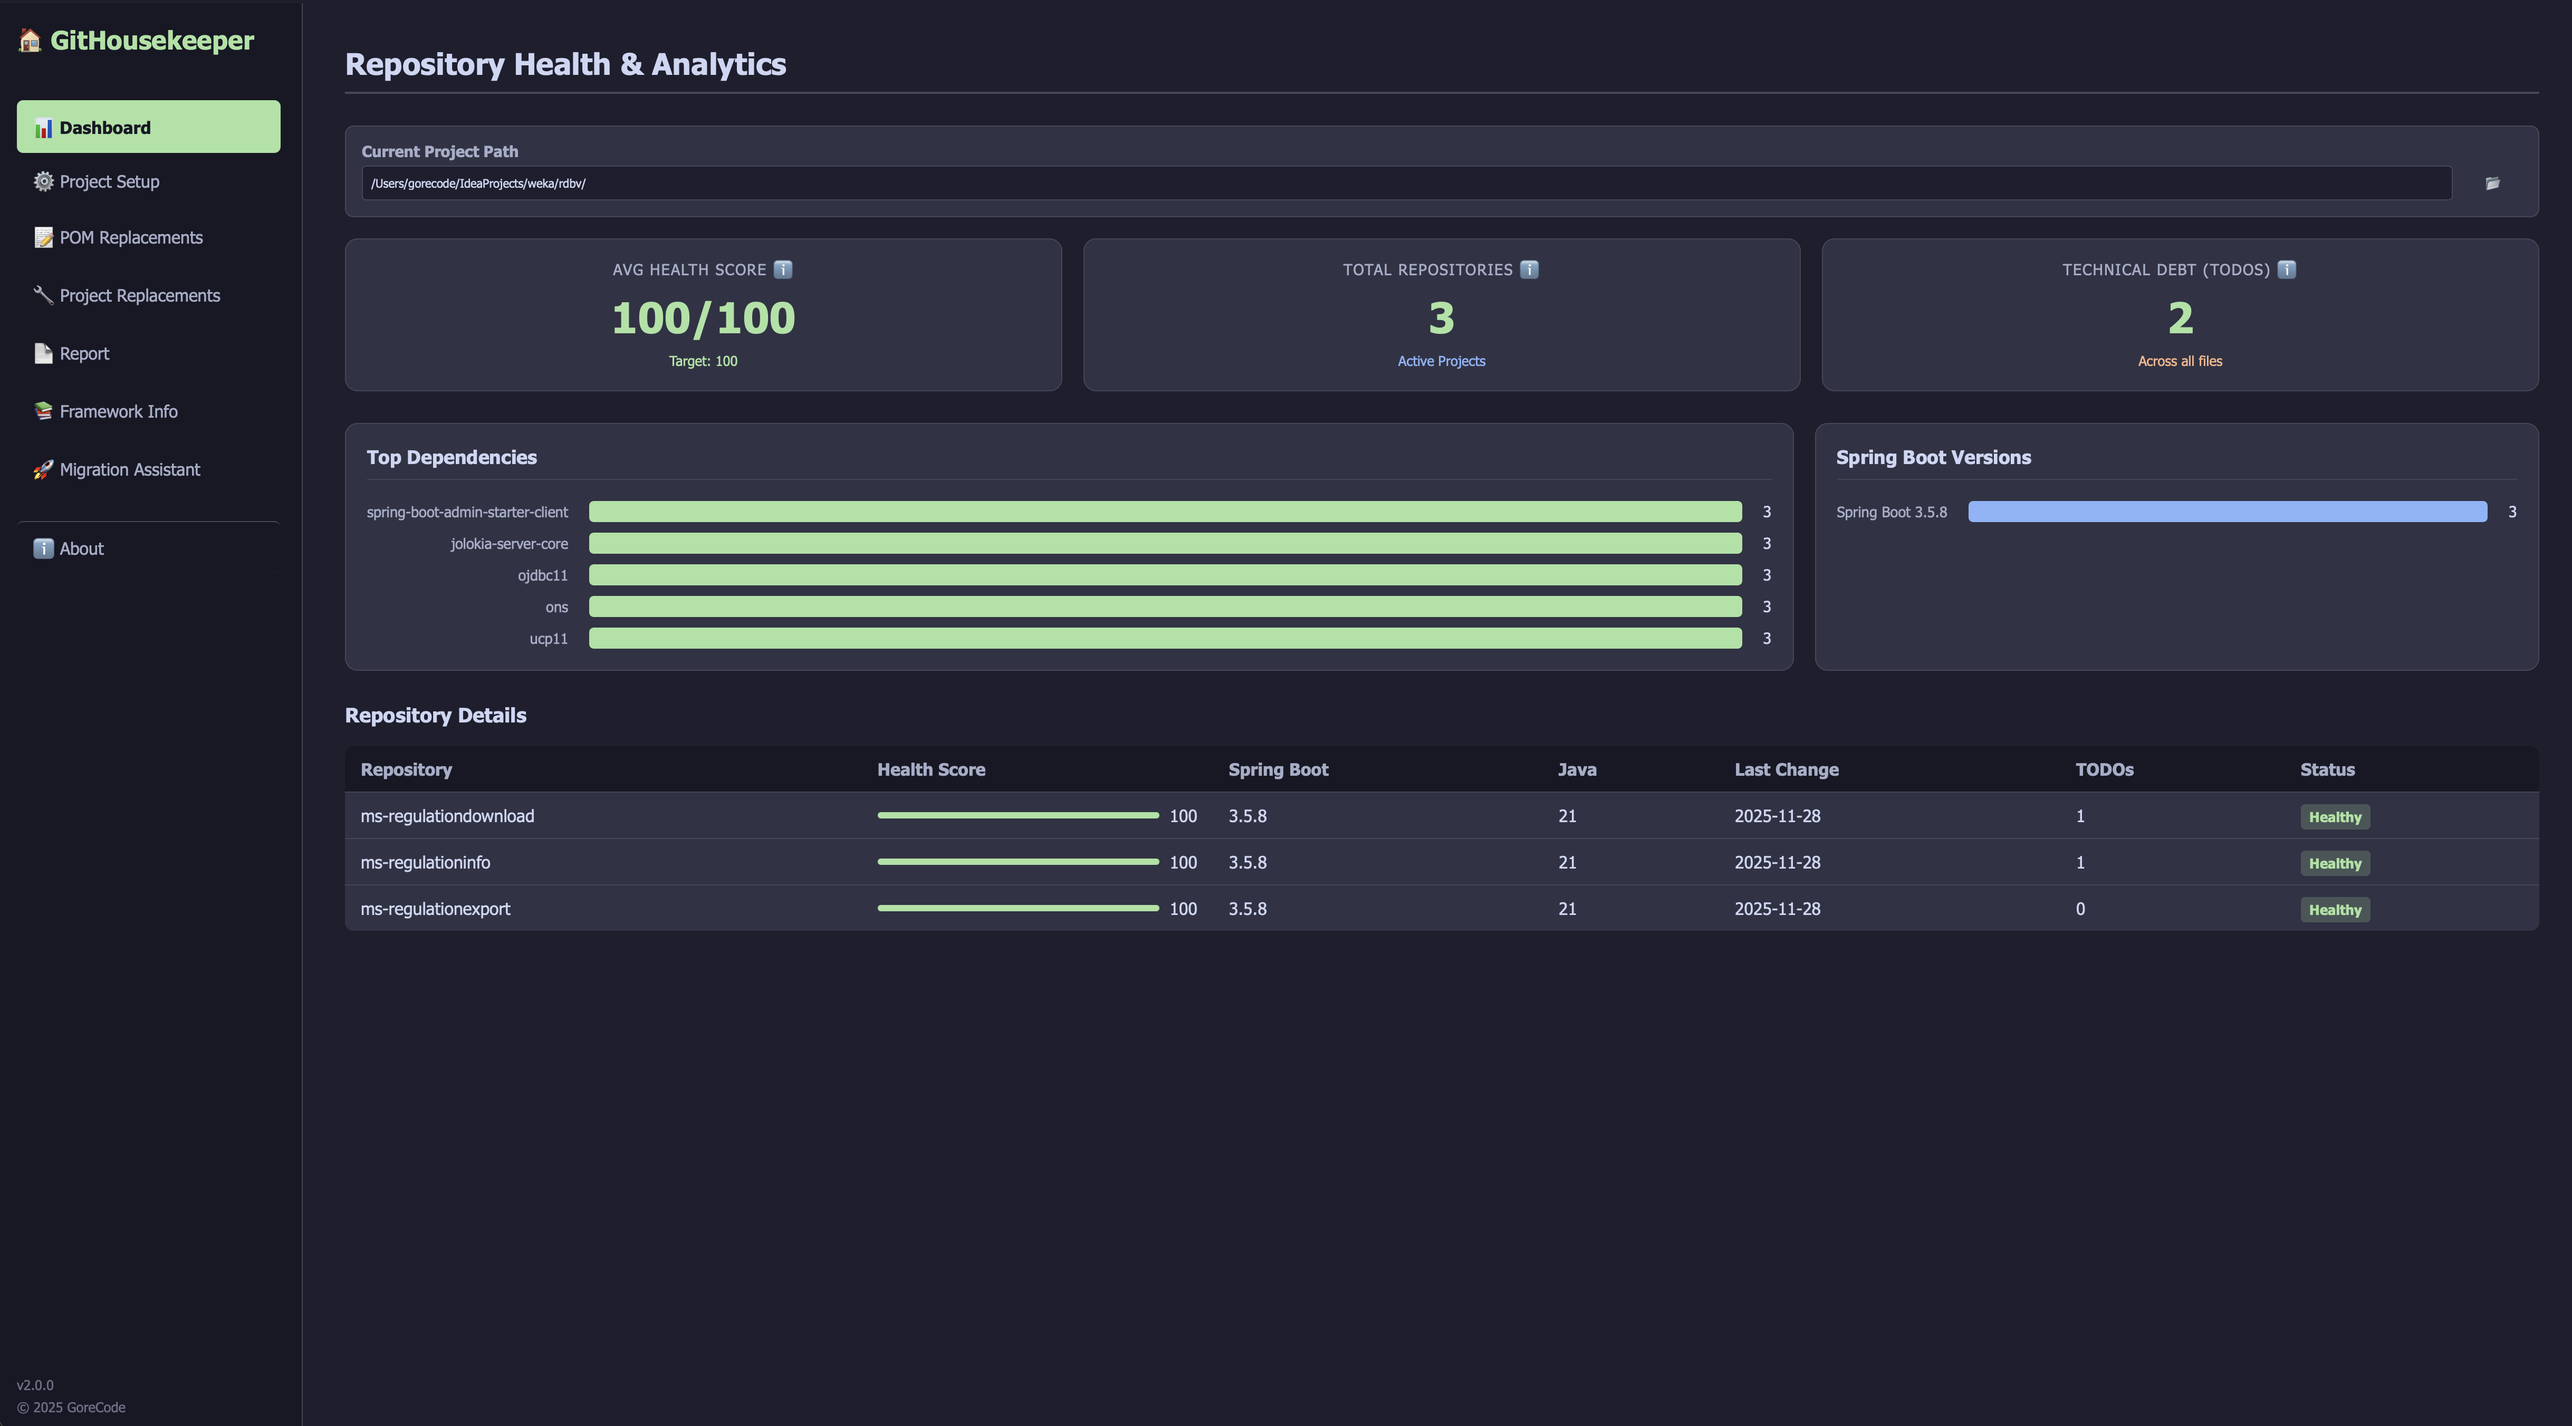
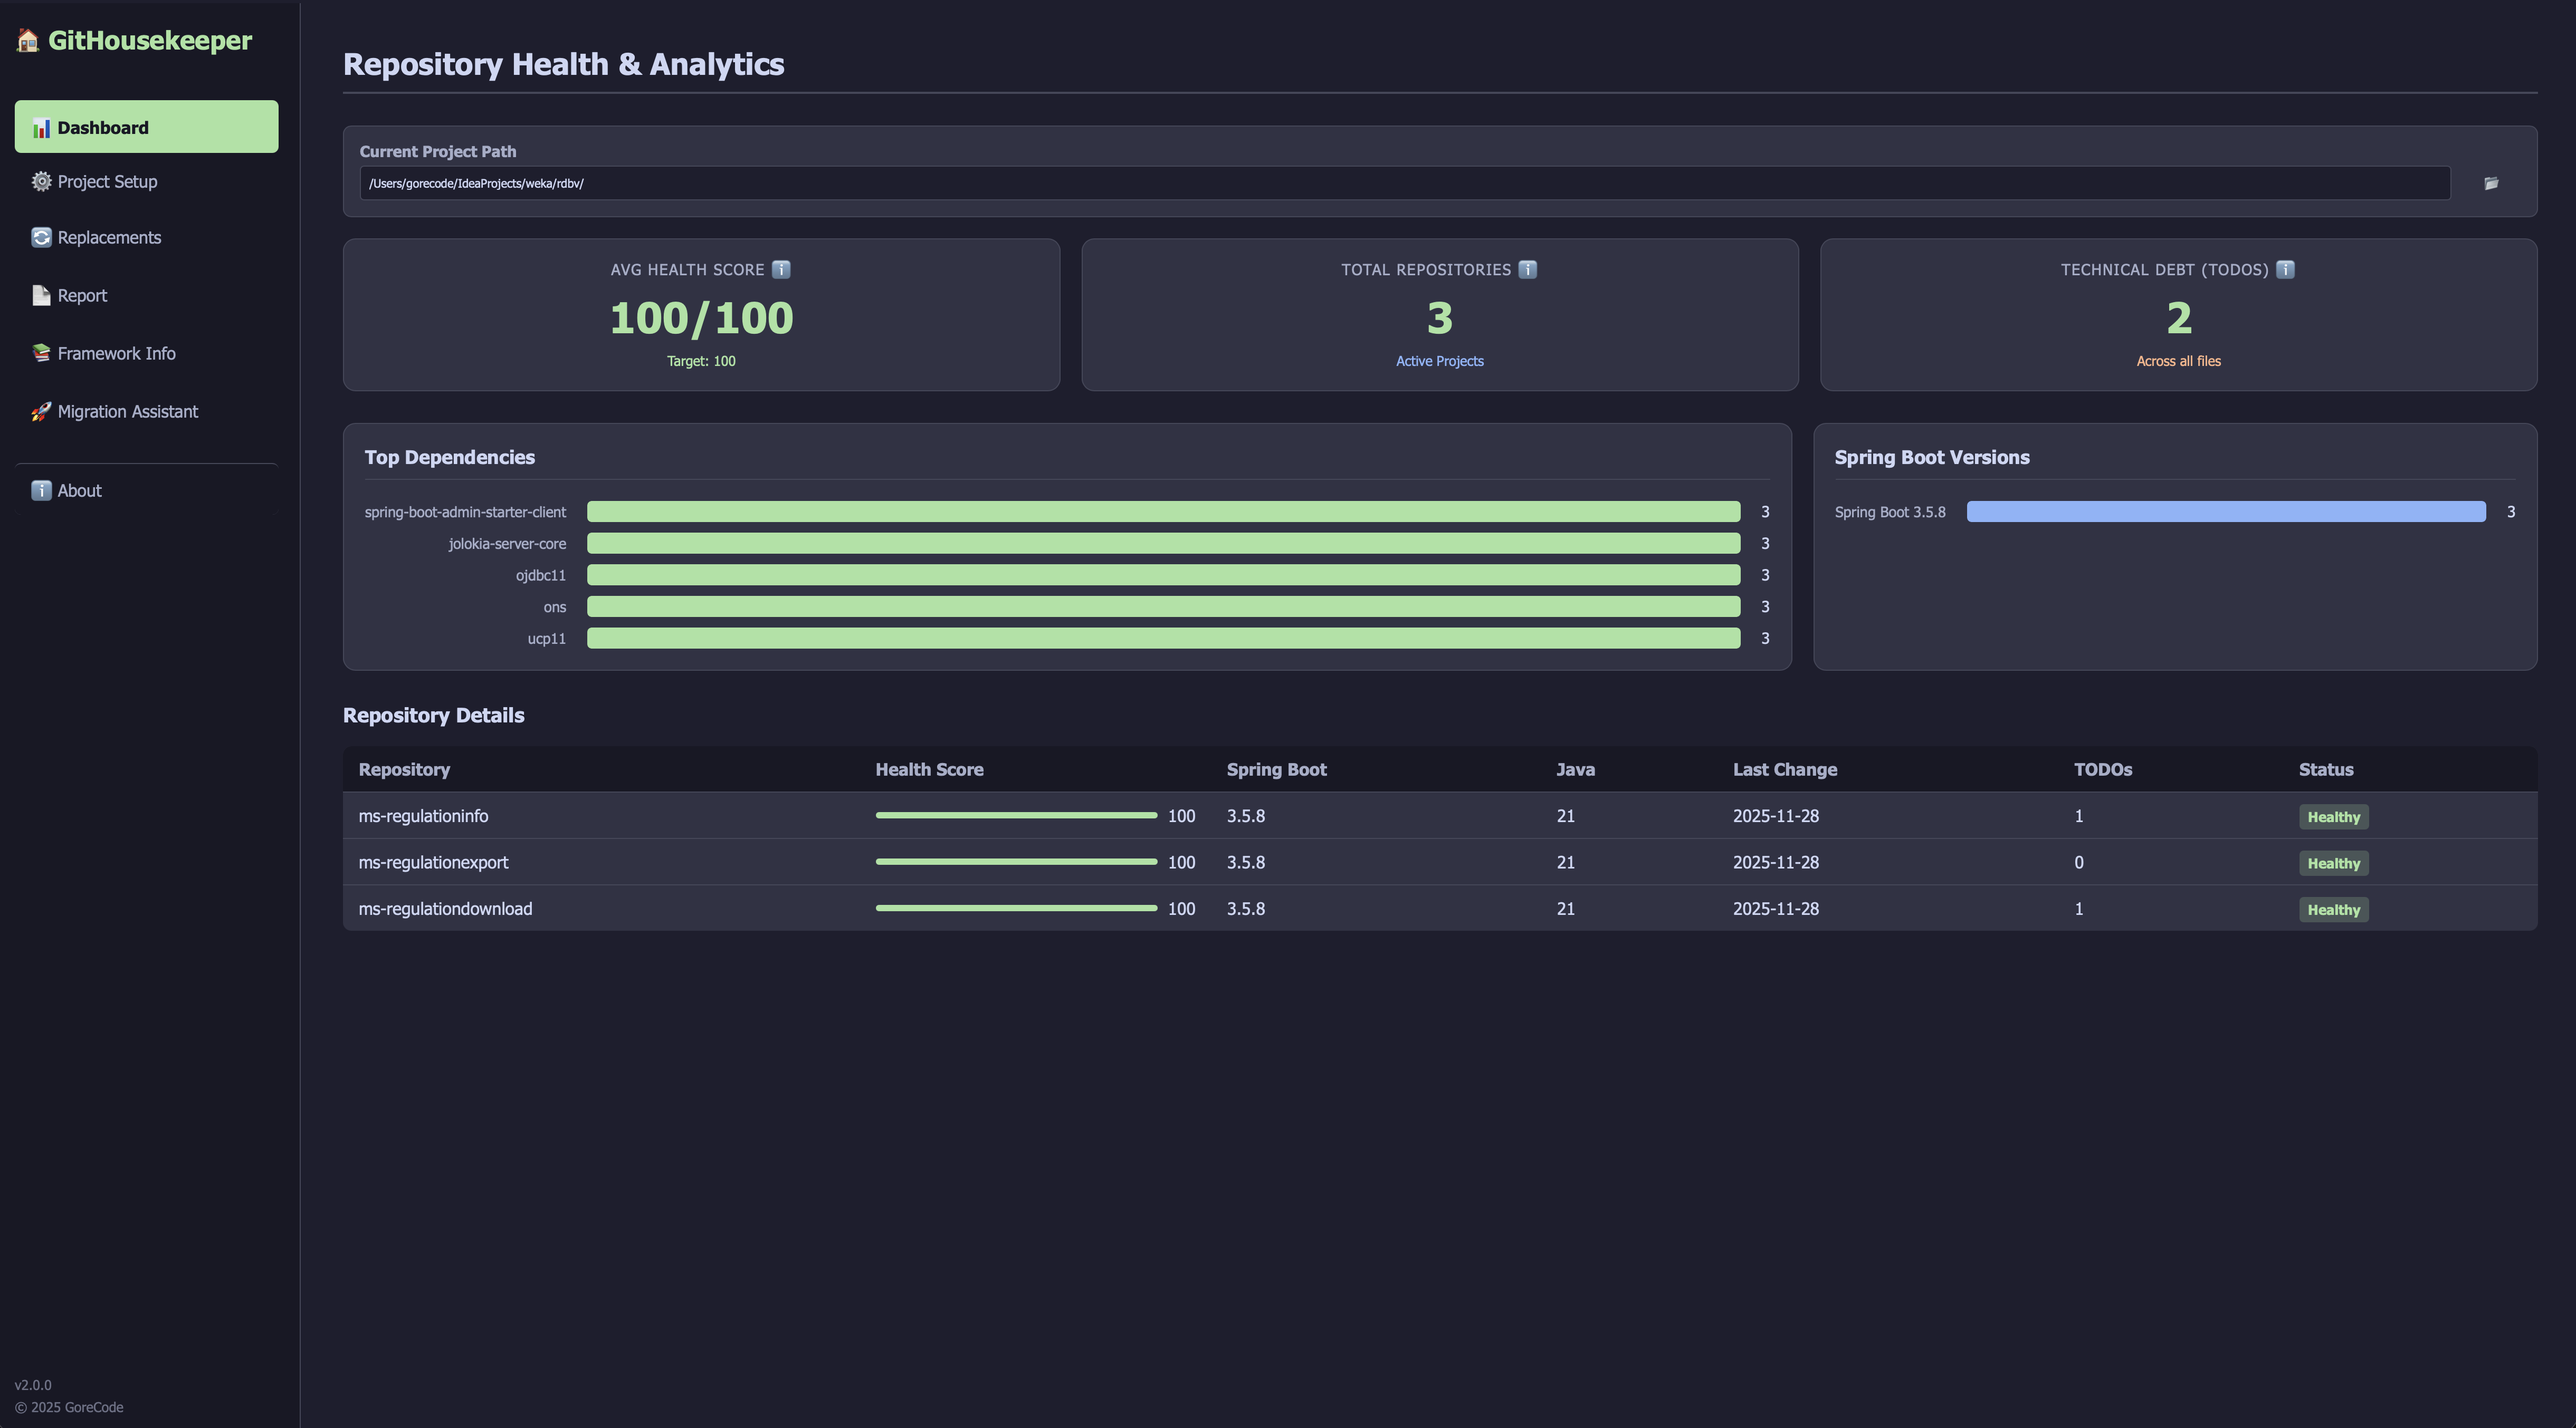
chore: update version to 2.1.0 and update screenshots/docs

diff --git a/assets/index.html b/assets/index.html
@@ -42,7 +42,7 @@
           color: #6c7086;
         "
       >
-        <div>v2.0.0</div>
+        <div>v2.1.0</div>
         <div style="margin-top: 5px">© 2025 GoreCode</div>
       </div>
     </div>
@@ -824,7 +824,7 @@
                 >
                   GitHousekeeper
                 </h3>
-                <div style="color: #a6adc8; margin-top: 5px">Version 2.0.0</div>
+                <div style="color: #a6adc8; margin-top: 5px">Version 2.1.0</div>
               </div>
             </div>
             <p style="line-height: 1.6; color: #a6adc8">

diff --git a/README.md b/README.md
@@ -4,7 +4,7 @@ GitHousekeeper is a powerful tool designed to automate maintenance tasks and mas
 
 ## 📥 Download
 
-**Current Version: 2.0.0**
+**Current Version: 2.1.0**
 
 Download the pre-built executable for your platform:
 
@@ -42,8 +42,9 @@ See [CHANGELOG.md](CHANGELOG.md) for release history and all versions on the [Re
 
 ### 🔄 Mass Search & Replace
 
-- **POM Replacements**: Targeted fuzzy search and replace within `pom.xml` files.
-- **Project-Wide Replacements**: Fuzzy search and replace across all project files (excluding `.git`, `target`, etc.).
+- **Unified Replacements Tab**: Single interface with file scope selection.
+- **Scope Options**: Choose between "All Files", "Only pom.xml", or "Exclude pom.xml".
+- **Fuzzy Matching**: Smart search that handles whitespace and indentation differences.
 - **Smart Indentation**: Automatically detects and preserves the indentation of replaced blocks, ensuring clean XML/code formatting.
 
 ### 🛠 Maven Integration
@@ -219,8 +220,8 @@ If you want to modify the frontend (HTML/CSS/JS) without rebuilding the Go appli
 
 2. **Define Replacements**:
 
-   - Use the **POM Replacements** tab for specific changes in `pom.xml`.
-   - Use the **Project Replacements** tab for global changes across all files.
+   - Use the **Replacements** tab to define search/replace patterns.
+   - Select the **Scope**: All Files, Only pom.xml, or Exclude pom.xml.
 
 3. **Execute**:
    - Click **Start** to begin.
@@ -249,29 +250,24 @@ _Repository health overview with analytics and metrics_
 ![Project Setup](screenshots/02_Project_Setup.png)
 _Configure projects, branch strategy, and version settings_
 
-### POM Replacements
+### Replacements
 
-![POM Replacements](screenshots/03_POM_Replacements.png)
-_Search and replace within pom.xml files_
-
-### Project Replacements
-
-![Project Replacements](screenshots/04_Project_Replacements.png)
-_Project-wide search and replace across all files_
+![Replacements](screenshots/03_POM_Replacements.png)
+_Unified search and replace with file scope selection (All Files / Only pom.xml / Exclude pom.xml)_
 
 ### Report
 
-![Report](screenshots/05_Report.png)
+![Report](screenshots/04_Report.png)
 _Live execution log with deprecation warnings_
 
 ### Framework Info
 
-![Framework Info](screenshots/06_Framework_Info.png)
+![Framework Info](screenshots/05_Framework_Info.png)
 _Spring Boot versions, Java SE support matrix, and framework references_
 
 ### Migration Assistant
 
-![Migration Assistant](screenshots/07_Migration_Assistant.png)
+![Migration Assistant](screenshots/06_Migration_Assistant.png)
 _OpenRewrite-powered migration analysis for Spring Boot, Java, and Jakarta EE_
 
 ## Contributing

diff --git a/CHANGELOG.md b/CHANGELOG.md
@@ -5,6 +5,20 @@ All notable changes to GitHousekeeper will be documented in this file.
 The format is based on [Keep a Changelog](https://keepachangelog.com/en/1.0.0/),
 and this project adheres to [Semantic Versioning](https://semver.org/spec/v2.0.0.html).
 
+## [2.1.0] - 2025-12-04
+
+### Changed
+
+- **Unified Replacements Tab** - Merged "POM Replacements" and "Project Replacements" into a single "Replacements" tab
+  - New **Scope Selection** with radio buttons: "All Files", "Only pom.xml", or "Exclude pom.xml"
+  - Cleaner UI with explanation card describing fuzzy matching and smart indentation
+  - Simplified workflow - one place for all replacement operations
+
+### Updated
+
+- Screenshots updated to reflect new unified Replacements tab
+- README documentation updated for new replacement workflow
+
 ## [2.0.0] - 2025-12-03
 
 ### Added
